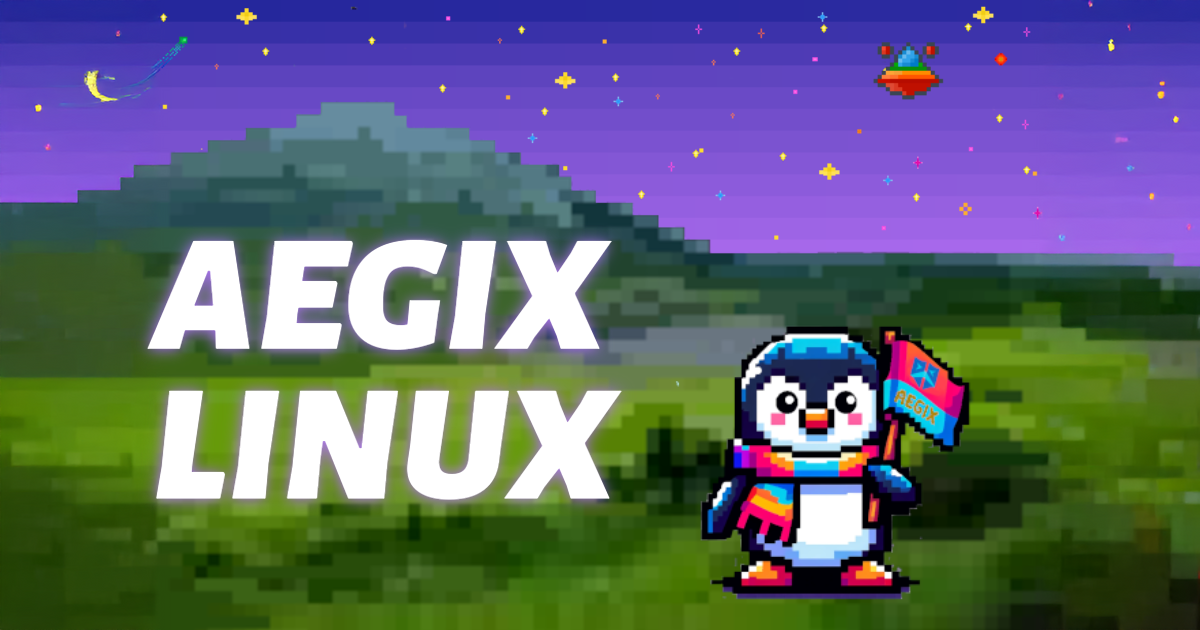
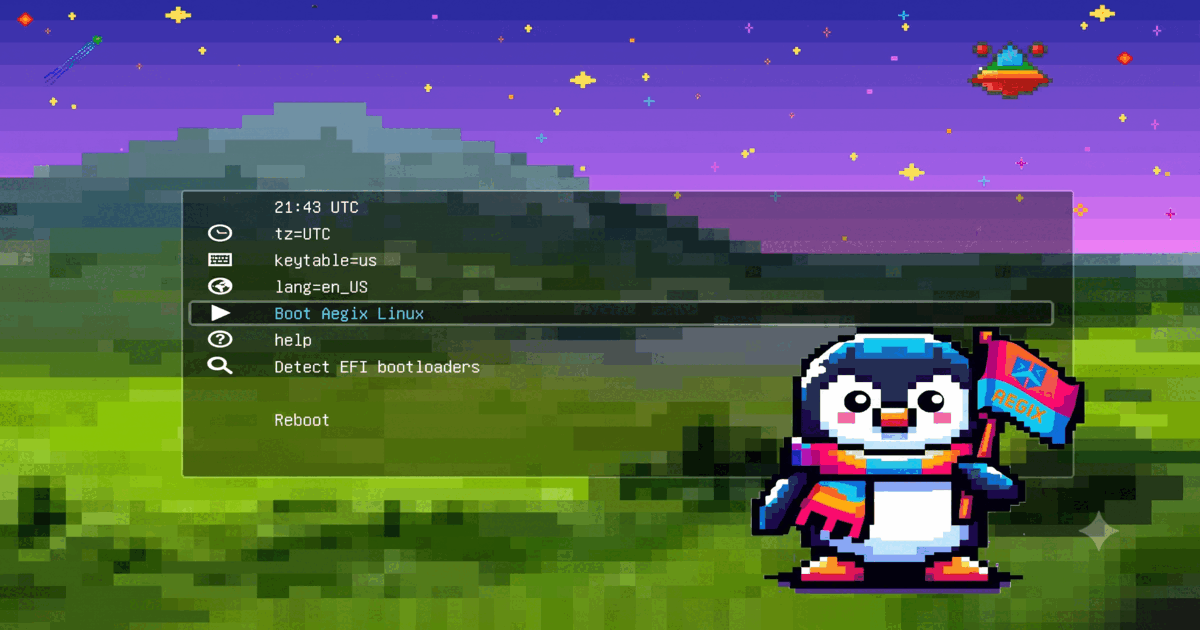
Hero: GRUB boot-menu art, optimized to 1200x630 PNG8 (5.2MB to 131KB)

diff --git a/articles/aegix-linux.md b/articles/aegix-linux.md
@@ -1,6 +1,6 @@
 # Aegix Linux
 
-![Aegix Linux: a pixel-art penguin holding an Aegix flag on a hillside beneath a starry purple sky](pix/mt-aso-penguin.png)
+![The Aegix GRUB boot menu: Boot Aegix Linux highlighted over a pixel-art hillside, with the Aegix penguin holding a flag](pix/mt-aso-penguin.png)
 
 There is an old line about operating systems as vehicles. A Mac is a sleek sports car: beautiful, expensive, and you are not allowed to open the hood. Windows is the family sedan, practical and everywhere and full of things you did not ask for. And Linux is a tank. Ugly, loud, absurdly overbuilt, and it will go absolutely anywhere you point it.
 
